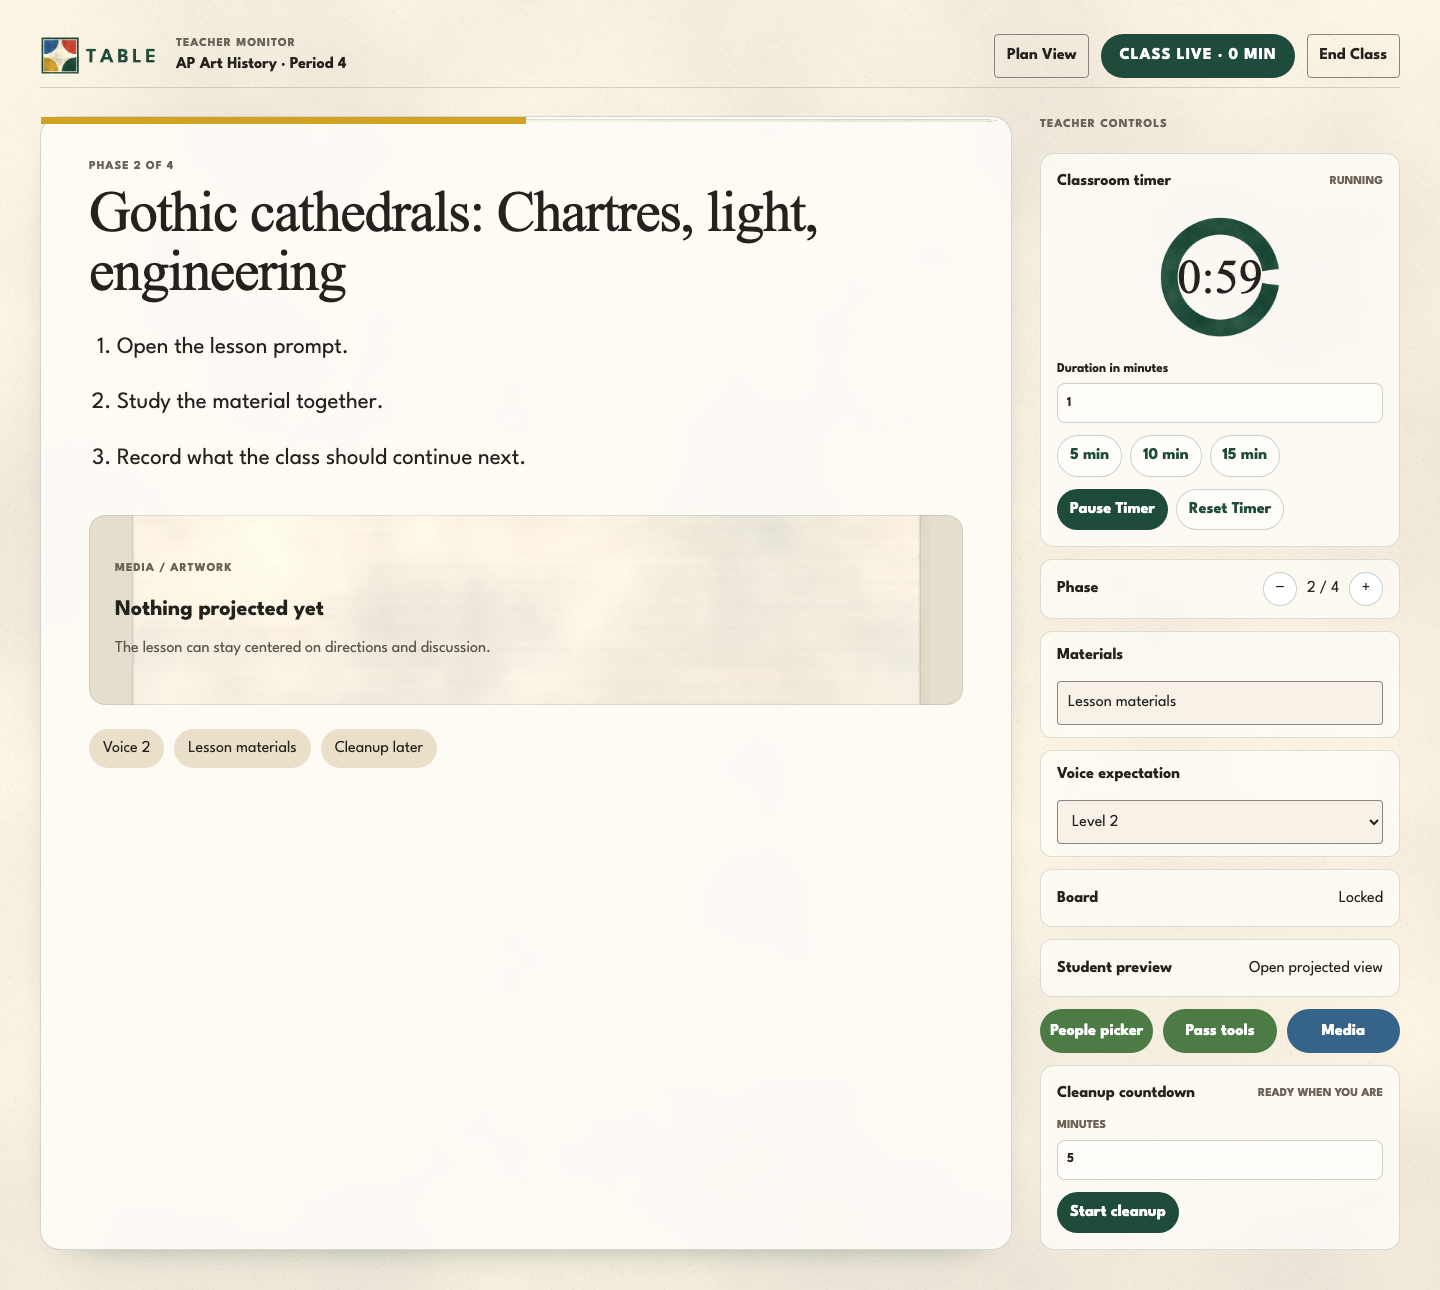
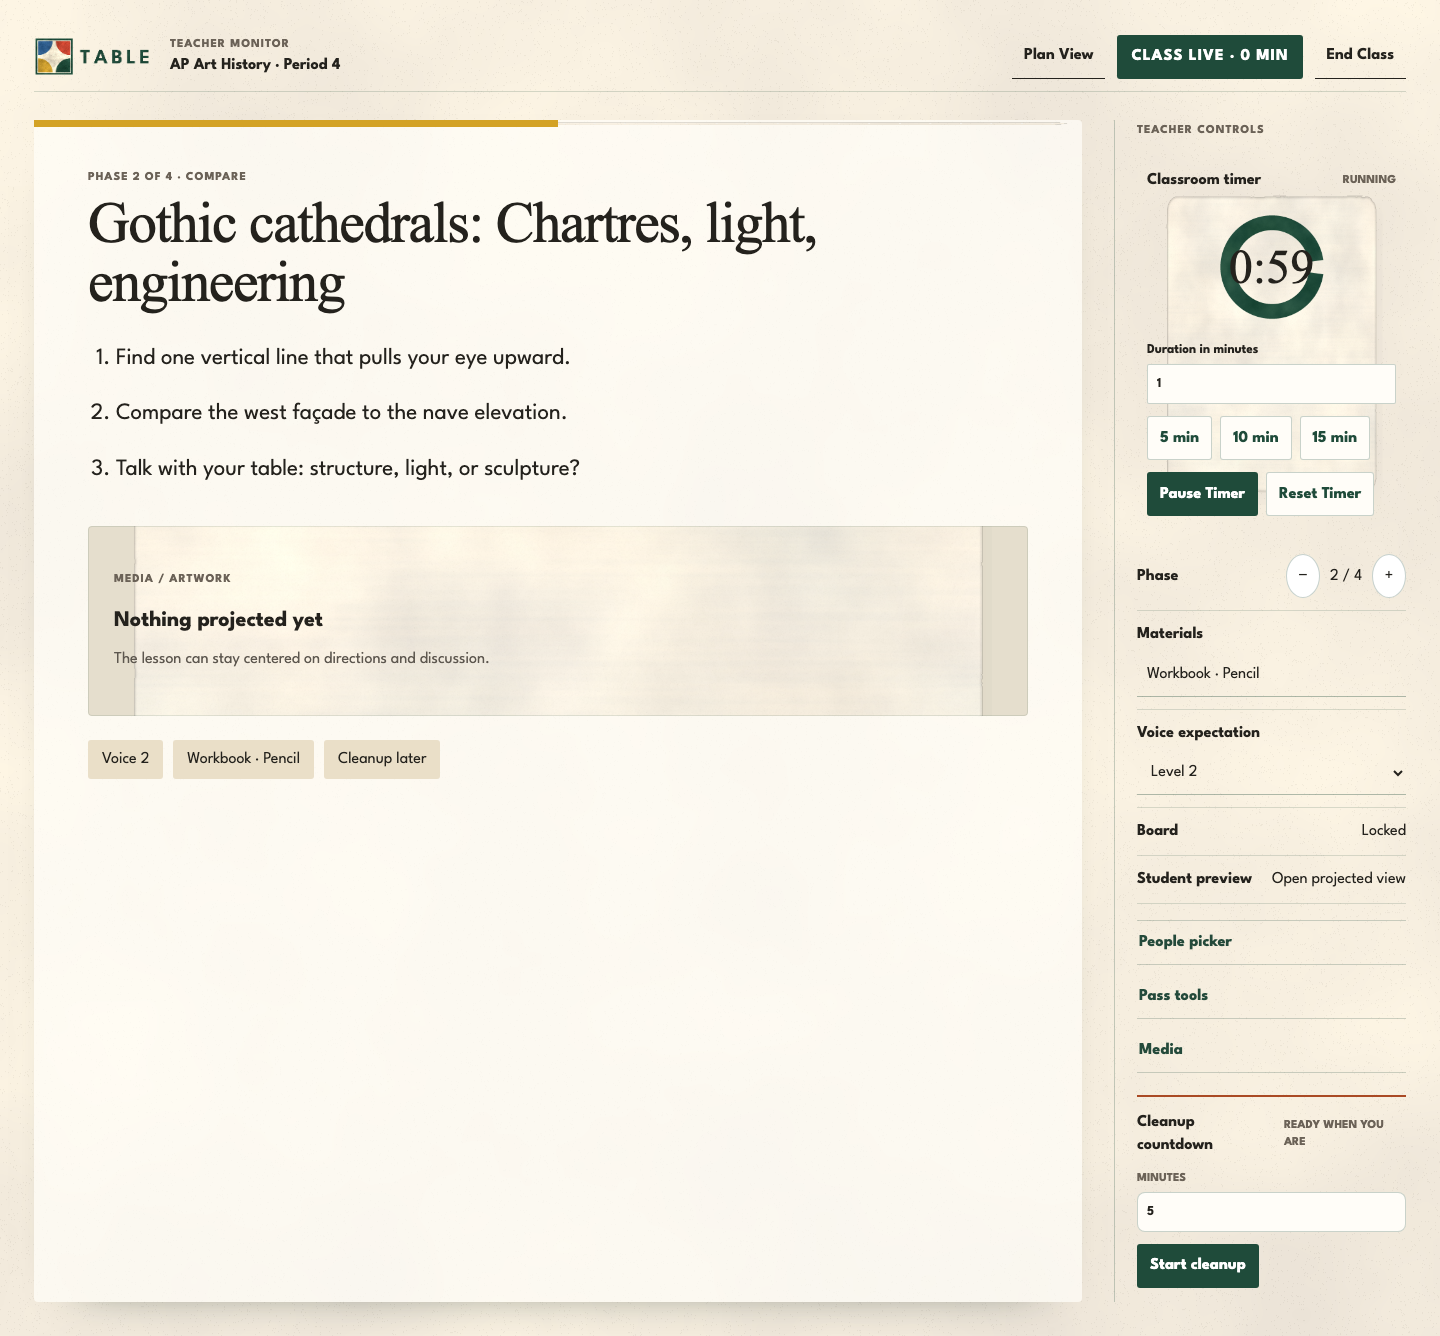
docs(arctable): record jury fix evidence

diff --git a/docs/overnight/ARC_MULTIPREP_ARCTABLE_REPORT.md b/docs/overnight/ARC_MULTIPREP_ARCTABLE_REPORT.md
@@ -6,8 +6,11 @@ Branch: `codex/arc-multiprep-arctable-integration`
 
 Design base: `f543ff25f86277809d68daeda5bb2a7bbe34a17f` (`design/v1-current-laws-reconciliation`)
 
-Continuation starting HEAD: `3cd321249722d772632e85bd72f3c8f6e11a832d`
-Overall status: **GREEN** — the core planning/live-class path and classroom tools are implemented, durable, accessible, and covered. Real slide-deck interoperability remains YELLOW.
+Jury-fix starting HEAD: `a5f2969b1ce1e1446a15e566baea20e025f4d481`
+
+Final branch HEAD: the report-bearing protected-branch commit; the exact SHA is recorded in the post-push terminal summary because a commit cannot contain its own SHA.
+
+Overall status: **GREEN** — canonical Lesson content now feeds ArcTable, classroom tools are hardened, Google Slides is proven with one real public deck, and the Teacher Monitor composition is corrected without replacing continuity plumbing. Unsupported slide providers and the unavailable external 12ui comparison remain explicit YELLOW items.
 
 ## Status vocabulary
 
@@ -25,23 +28,38 @@ There is still one canonical Arc planner. ArcTable is a temporary, Section-speci
 ```text
 AppFrame
   ├─ useArcTableSession
-  │    └─ arcTableLiveState + arcTableTools
+  │    ├─ arcTableLiveState + arcTableTools
+  │    └─ Arc-owned Section roster/pass configuration
   ├─ ArcTableTeacherMonitor
   │    └─ live timer / cleanup / people / passes / media
   └─ ArcTableStudentSurface
        └─ deliberately projected public state only
 
 arcTableSession ──────────→ easelSessionProjection (validated donor)
+canonical Lesson content ─→ planning/day projection ─→ ArcTable session
 arcTableTeachingOutcome ──→ easelTeachingOutcome (validated donor)
 ```
 
-Legacy Easel donors remain intentionally untouched:
+The validated Easel seam remains the donor boundary. Its session projection was minimally extended to carry canonical Lesson content; teaching-outcome behavior remains untouched:
 
 - `src/planning/easelSessionProjection.ts`
 - `src/planning/easelTeachingOutcome.ts`
 - their projection, outcome, and hostile core-loop contracts
 
-No legacy roster, pass-state, or media subsystem existed. The new tool state is scoped to the live Section and stored inside the existing durable ArcTable session boundary; it is not a second planning model.
+No legacy roster, pass-state, or media subsystem existed. A lightweight Arc-owned Section configuration now persists only names and pass definitions; active selections, pass ownership/status, timers, cleanup, and media projection remain transient live state. This is not an SIS or a second Lesson model.
+
+## Lesson-content boundary
+
+Before this jury pass, ArcTable received Lesson/Course/Unit/Section identity, dates, delivery status, and the Section-specific resume note. ArcTable then invented three generic directions, `Lesson materials`, and a four-phase count.
+
+The canonical `Lesson` now adds four deliberately small, backward-compatible fields:
+
+- `directions: string[]`
+- `materials: string[]`
+- `phases: string[]`
+- `resources: { id, title, kind, source }[]`
+
+Old stored Lessons hydrate those optional-at-storage fields to empty arrays. The fields flow through planning projection, Day continuity, the retained Easel donor seam, `arcTableSession`, and live-state creation. Empty Lessons remain usable and render honest empty states; generic teaching copy is no longer fabricated. Live edits remain transient and never write back automatically. Only the existing explicit End Class outcome updates Section delivery truth.
 
 ## Brutally accurate state table
 
@@ -53,14 +71,19 @@ No legacy roster, pass-state, or media subsystem existed. The new tool state is 
 | Year | Course rows with subtle structural underlays and Unit sequence | Browser verifies all Courses and one underlay per Course at Unit resolution | **GREEN** |
 | Workspace | All visible and accessible language says Workspace | Capture-before-Course, holding, placement, return, and undo retain existing contracts; no visible “Fridge” in browser | **GREEN** |
 | Live identity | Course, Section, Unit, Lesson, phase, and class elapsed context | Identity and immutable `startedAt` survive Plan View and refresh; outcome remains Section-only | **GREEN++** |
-| Classroom timer | Production normal ring, editable duration, 5/10/15 presets, Start/Pause/Resume/Reset | Independent deterministic origin; running and paused states survive Plan View and refresh; completion settles explicitly | **GREEN++** |
+| Lesson content integration | Authored directions, materials, phases, and references dominate the teaching field | Domain projection and browser prove canonical content on Teacher and Student surfaces; live tools do not mutate source Lesson content | **GREEN++** |
+| Classroom timer | Production normal ring, editable duration, 5/10/15 presets, Start/Pause/Resume/Reset | One shared 120-minute maximum; maximum and above-limit browser coverage; independent origin; Plan View/refresh continuity | **GREEN++** |
 | Cleanup | Production cleanup ring/accent, distance-readable Student mode | Separate countdown supports start, pause, resume, cancel, completion, Plan View persistence, and never ends class | **GREEN++** |
-| People picker | Section-labeled production people surface and live result | Empty state, normalized names, duplicate prevention, keyboard operation, live announcement, persistence, deliberate projection, no planning mutation | **GREEN** |
-| Pass tools | Production available/active plates with requested/active/inactive state | Section-scoped, keyboard-native, persistent through Plan View, private on Student Surface, cleared with End Class | **GREEN** |
+| People state engine | Explicit Random and Round-robin modes, live result, opt-in projection | Empty/duplicate handling, keyboard operation, live announcement, impossible selected ID repair | **GREEN++** |
+| Reusable Section roster | Lightweight name-only roster edited from ArcTable | Persists across separate sessions of the same Section; another Section remains isolated; selection stays transient | **GREEN** |
+| Pass state engine | Configurable pass definitions and requested/active/inactive state | Unique IDs, optional person association, request ownership, Plan View continuity, End Class clearing, Student privacy | **GREEN++** |
+| Classroom pass workflow | Defaults plus teacher-defined types without SIS/history scope | Browser proves request → active → returned and Section isolation | **GREEN** |
 | Artwork/image media | Real media apparatus with intentional empty and active states | Safe source schemes, selection, Plan View restore, deliberate Student projection, teacher-only edit controls | **GREEN** |
-| Presentation/slide media | Same apparatus supports a `slides` item and isolated iframe | State and render path are contract/type/build covered, but no real external deck was exercised end-to-end | **YELLOW** |
-| Projected Student Surface | Distinct quiet surface, normal/cleanup timer rings, media and optional picked student | No private pass data, no hidden keyboard-reachable controls, only one visible Exit projection action, 390px reflow | **GREEN** |
+| Google Slides media | Edit/present/pub URLs normalize to a sandboxed view-only embed | Real public deck renders on Teacher Monitor and Student Surface and survives Plan View | **GREEN** |
+| Other slide providers | Rejected with a visible error instead of a broken frame | No provider beyond Google Slides is claimed interoperable | **YELLOW** |
+| Projected Student Surface | Distinct quiet surface, normal/cleanup timer rings, media and optional picked student | No class elapsed, pass data, editor controls, or visible/hidden exit button; Escape returns teacher; 390px reflow | **GREEN++** |
 | End Class | Explicit outcome dialog | Complete/stop-with-required-note/never-started-skip; clears live tools only after confirmation | **GREEN++** |
+| Visual composition | Teaching field exceeds 70% width; compact utility rail; tools layer only when open | Browser asserts no permanent tool panels and no equal-weight rounded-card stack; fresh captures manually reviewed | **GREEN** |
 
 ## Classroom timer truth
 
@@ -69,14 +92,15 @@ No legacy roster, pass-state, or media subsystem existed. The new tool state is 
 - `cleanupTimer` is a second countdown with independent status and duration.
 - Countdown states are `idle`, `running`, `paused`, and `completed`; cleanup is an explicit instructional mode derived from the cleanup countdown rather than a cosmetic boolean.
 - Live state schema is version 2. Stored version-1 sessions migrate forward, including an active legacy cleanup state.
+- Version-2 hostile persistence repairs duplicate IDs, impossible selected/active references, bad pass ownership, excessive remaining time, and invalid run origins without crashing the planner.
 
 ## People, pass, and media privacy
 
-- People, passes, and media each carry the active `sectionId`.
+- People, passes, and media each carry the active `sectionId`; reusable roster/pass definitions use a separate Arc-owned Section key.
 - People selection and all pass details remain teacher-only unless a teacher explicitly projects the selected person.
 - The Student Surface never renders pass labels or states.
 - Only the active media item is shown, and only after the teacher enables projection.
-- Live tools are proven not to modify canonical planning workspace data.
+- Live tools are proven not to modify canonical Lesson source content.
 - End Class removes the live-session boundary, resolving transient people/pass/media state without inventing durable student records.
 
 ## ARC ASSETS 910 function audit
@@ -110,8 +134,8 @@ These remain honest YELLOW inventory items rather than controls that pretend to 
 ## Design and accessibility audit
 
 - Approved Figma file `guts` (`CfWcuQPY4ljYXondICj2ZX`), page `Arc Multi-Prep Synthesis` (`6:46`), was reviewed against Day, Week/Workspace, plan-while-live, Teacher Monitor, and Student Surface frames.
-- Manual image review confirmed authored tactile/editorial character, central working space, variable emphasis, production identity placement, and distinct teacher/student hierarchy.
-- The required 12ui target comparison was attempted after installing the pinned CLI, but platform review blocked repository/reference upload to the external service because that egress was not explicitly authorized. No workaround was attempted. Local visual review and browser evidence continued independently.
+- Manual image review confirmed the approved editorial hierarchy: the teaching field dominates, utilities form a quiet rail, open tools layer into the workspace, production assets retain functional meaning, and Student Surface stays presentation-first.
+- The required 12ui target comparison was attempted again with the pinned CLI after this jury correction. Platform review blocked repository/reference upload because destination-specific data egress was not explicitly authorized. No workaround was attempted. This external comparison remains **YELLOW**; local side-by-side review and browser geometry assertions passed.
 - Native buttons/inputs/selects provide keyboard operation and accessible names. Picker results use a polite live region.
 - Focus visibility is browser-verified. ArcTable motion is suppressed under `prefers-reduced-motion: reduce`.
 - Planner shell tests cover 200%/400% zoom and 320/390px widths. ArcTable additionally covers Teacher and Student reflow at 390px.
@@ -129,13 +153,14 @@ Verified before functional changes:
 
 The four legacy phase-browser commands were dispatched during the initial baseline, but their completion output was not captured. The final verification sweep later exposed stale header-action selectors in all four. They were migrated to the current Settings workflow and then passed individually and in the final suite; they are not claimed as pre-change passes.
 
-Passing after functional changes:
+Passing after the jury fix:
 
-- `npm run build` — 41 contract groups, type-check, production bundle
+- `npm run build` — 42 contract groups, type-check, production bundle
 - `node tests/arctable-continuity.smoke.mjs`
 - `node tests/browser-a11y.smoke.mjs`
 - `node tests/phase2-planning-truth.mjs`
 - existing keyboard parity, Section divergence, recovery/undo, and calendar-edge planning gates
+- canonical Lesson-content, Section roster, pass-person, timer-limit, malformed-state, Student privacy, and real Google Slides checks inside the updated contract/browser suites
 - `git diff --check`
 
 Six obsolete browser tests were updated to current product law:
@@ -156,12 +181,33 @@ Six obsolete browser tests were updated to current product law:
 - `evidence/08-people-picker.png`
 - `evidence/09-pass-tools.png`
 - `evidence/10-media.png`
+- `evidence/10b-google-slides.png`
 - `evidence/11-cleanup-teacher.png`
 - `evidence/12-cleanup-student.png`
 
 ## Guardrails honored
 
 - Existing `fridge*` internal compatibility seams remain intact.
-- Existing validated Easel donor code remains intact.
+- Existing Easel outcome behavior and compatibility seam remain intact; only the session projection payload gained canonical Lesson content.
 - `main` and `design/v1-current-laws-reconciliation` were not modified.
 - No merge, deployment, or Vercel configuration change was performed.
+
+## Jury-pass changed-file summary
+
+- Canonical Lesson and projection: `lessons.ts`, `lessonWorkspace.contract.ts`, `planningProjection.ts`, `dayContinuityProjection.ts`, `easelSessionProjection.ts` and its contract, `LessonSetup.tsx`, `lessonSetup.css`.
+- Live state/tools: `arcTableLiveState.ts` and contract, `arcTableTools.ts` and contract, new `arcTableSectionConfig.ts` and contract, `useArcTableSession.ts`, planning exports.
+- Surfaces/visuals: `ArcTableSurfaces.tsx`, `arctable.css`.
+- End-to-end verification/evidence: `arctable-continuity.smoke.mjs`, contract runner, and refreshed evidence images.
+
+## Jury-pass commits
+
+- `2144af2 feat(lessons): project canonical teaching content`
+- `7b91dad feat(arctable): harden classroom tools and projection`
+- documentation/evidence commit containing this report (exact final SHA reported after push)
+
+## Remaining YELLOW items
+
+- Slide providers other than Google Slides are intentionally unsupported and rejected.
+- The external 12ui target-comparison service could not be used without explicit authorization to upload the repository/reference payload; local visual acceptance was completed.
+
+Known RED bugs: none observed in the completed verification suite.

diff --git a/docs/overnight/ARC_CONTINUATION_LOG.md b/docs/overnight/ARC_CONTINUATION_LOG.md
@@ -46,7 +46,7 @@ The four legacy phase-browser commands were dispatched during the initial baseli
 - Classroom elapsed duration remains derived solely from immutable `startedAt`.
 - Classroom countdown, cleanup countdown, people, passes, and media belong to the durable live-session boundary; none may create a second planner or mutate Lesson planning truth.
 - Because no legacy roster, pass, or media model exists, this pass adds section-scoped live tools rather than inventing canonical school-wide data.
-- Validated Easel projection/outcome donors remain untouched behind ArcTable-named adapters.
+- The validated Easel projection/outcome seam remains behind ArcTable-named adapters; the jury pass minimally extends only the projection payload with canonical Lesson content.
 
 ## Queue completion matrix
 
@@ -65,3 +65,37 @@ The four legacy phase-browser commands were dispatched during the initial baseli
 ## Tool constraint
 
 The required 12ui target comparison was attempted with the pinned 0.2.65 CLI against the approved Teacher Monitor image. Platform review rejected repository/reference upload to the external service because that data egress was not explicitly authorized. No workaround was attempted. Manual side-by-side image review and local browser verification were completed instead; this constraint does not block product behavior.
+
+## Jury fix pass — 2026-09-13
+
+Starting HEAD: `a5f2969b1ce1e1446a15e566baea20e025f4d481`
+
+| Jury lane | Status | Observed evidence |
+|---|---|---|
+| Canonical Lesson → ArcTable | GREEN++ | Removed generic directions/material defaults; added minimal canonical directions, materials, phases, and resources; projection and Teacher/Student browser assertions pass |
+| Timer limit | GREEN++ | Shared 120-minute maximum; domain clamps and UI visibly constrains 121 to 120; immutable class `startedAt` unchanged |
+| Student privacy | GREEN++ | Class elapsed and Exit projection removed; no buttons/private passes/editor controls; Escape returns to Teacher Monitor |
+| People engine | GREEN++ | Explicit random/round-robin modes, duplicate/empty/keyboard/invalid-ID coverage |
+| Reusable roster | GREEN | Section configuration persists name-only roster across separate P4 sessions; P1 isolation proven |
+| Pass engine | GREEN++ | Configurable definitions, optional person ownership, request/active/returned, unique-ID hardening, Plan View continuity |
+| Google Slides | GREEN | Real public deck normalized to sandboxed embed, rendered in Teacher/Student, and retained through Plan View |
+| Other slide providers | YELLOW | Rejected visibly; no generic interoperability claim |
+| Version-2 integrity | GREEN++ | Hostile repair covers impossible selections/media, duplicate roster/pass/media IDs, ownership, countdown bounds and run origins |
+| Visual composition | GREEN | Teaching field >70%; compact utility rail; closed tools consume no workspace; rounded utility-card count reduced to at most one |
+| External 12ui comparison | YELLOW | Re-attempted; platform rejected destination-specific repository/reference upload. No workaround used. |
+
+Transient/live boundary remains explicit: timers, cleanup, picker result, pass status/ownership, active media, projection choices, phase position, voice, and board state never auto-save into canonical Lesson truth. Section delivery outcome is still the only End Class writeback.
+
+### Observed final verification
+
+- `npm run build` — 42 contract groups, type-check, production bundle
+- `node tests/arctable-continuity.smoke.mjs`
+- `node tests/browser-a11y.smoke.mjs`
+- `node tests/phase2-planning-truth.mjs`
+- `node tests/phase2-nondrag-keyboard-parity.mjs`
+- `node tests/phase2-object-actions-section-divergence.mjs`
+- `node tests/phase2-recovery-undo-continuity.mjs`
+- `node tests/phase2-calendar-edge-planning-truth.mjs`
+- `git diff --check`
+
+No uncaptured command is represented as passing.
